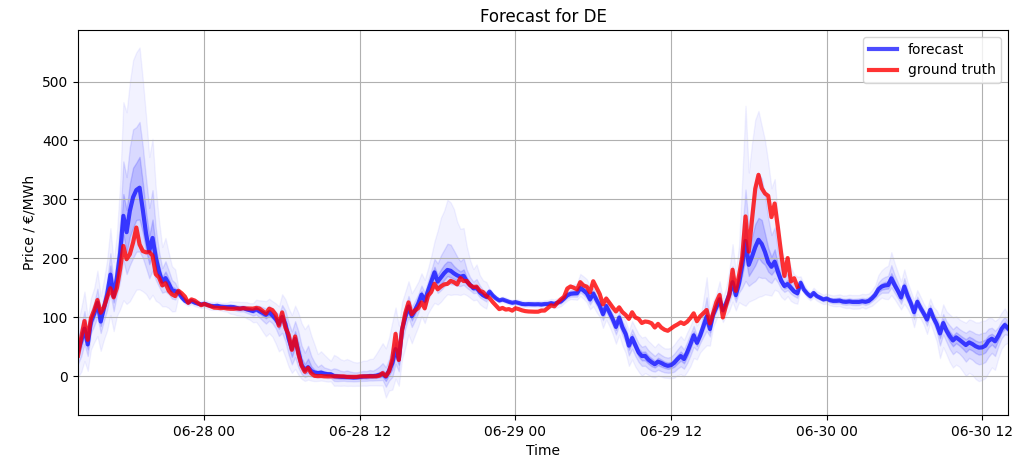
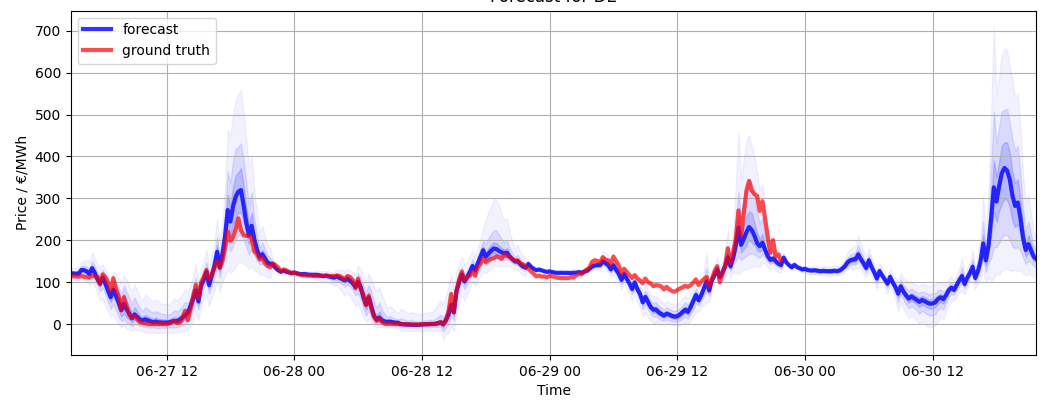
✳ Tiny plot improvements

diff --git a/src/epex_forecast/simple_plot.py b/src/epex_forecast/simple_plot.py
@@ -5,22 +5,46 @@ import matplotlib.pyplot as plt
 
 def plot_forecast(forecast_df: pd.DataFrame, meta: dict = None):
     forecat_columns = [col for col in forecast_df.columns if col != "ground truth"]
+
     plt.figure(figsize=(12, 5))
 
     if len(forecat_columns) > 1:
+        # plot quantiles as shaded area
         assert len(forecat_columns) % 2 == 1 # only odd number of quantiles (paarwise + one main forecast)
 
+        # extract main forecast
         main_id = len(forecat_columns) // 2 # center quantile = main forecast
         main_col = forecat_columns[main_id]
 
+        # extract quantile pairs and plot them
         color_alphas = np.linspace(0, 0.15, main_id+1, endpoint=True)[1:]
         for i in range(main_id):
             lower_col = forecat_columns[i]
             upper_col = forecat_columns[-i - 1]
-            plt.fill_between(forecast_df.index, forecast_df[lower_col], forecast_df[upper_col], color="blue", alpha=color_alphas[i])
-        plt.plot(forecast_df.index, forecast_df[main_col], label="forecast", color="blue", linewidth=3, alpha=0.7)
+            plt.fill_between(forecast_df.index,
+                             forecast_df[lower_col],
+                             forecast_df[upper_col],
+                             color="blue",
+                             alpha=color_alphas[i])
+    else:
+        main_col = forecat_columns[0]
 
-    plt.plot(forecast_df.index, forecast_df["ground truth"], label="ground truth", color="red", linewidth=3, alpha=0.8)
+    # plot main forecast
+    plt.plot(forecast_df.index,
+             forecast_df[main_col],
+             label="forecast",
+             color="blue",
+             linewidth=3,
+             alpha=0.8)
+
+    # plot ground truth
+    plt.plot(forecast_df.index,
+             forecast_df["ground truth"],
+             label="ground truth",
+             color="red",
+             linewidth=3,
+             alpha=0.7)
+
     plt.xlim(forecast_df.index[0], forecast_df.index[-1])
     plt.grid()
     plt.xlabel("Time")

diff --git a/CHANGELOG.md b/CHANGELOG.md
@@ -1,3 +1,6 @@
+# 0.1.1
+✨ tiny plot improvements: single forecast ready (non-quantiles)
+
 # <= 0.1.0
 *initial verison, focus on simple access functions*
 